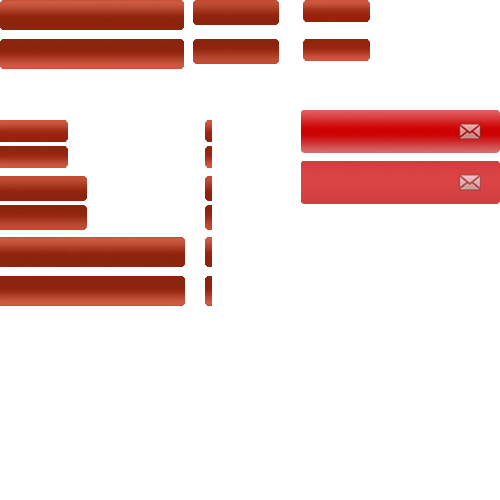
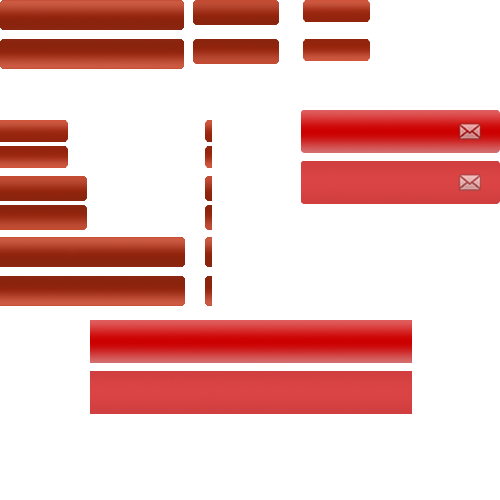
published

Changed region(s): [[0.18, 0.63, 0.84, 0.84]]

diff --git a/pool/templates/Beijing-Lhasa.html b/pool/templates/Beijing-Lhasa.html
@@ -153,23 +153,6 @@
 	</div>
 	<div class="expat one-col box-effect">
 		<h2>Custom Tibet Trips &amp; Travel Service for Expats &amp; business</h2>
-		<dl class="service">
-			<dt>
-				What our travel service includes:
-			</dt>
-			<dd>
-				We can help you book the train/flight ticket to Lhasa from Beijing, vice versa;
-			</dd>
-			<dd>
-				We can get the Tibet Travel permit for you no matter what kind of visa you're holding (X, L, except for J).
-			</dd>
-			<dd>
-				We can get the Tibet Travel permit for you no matter what kind of visa you're holding (X, L, except for J).
-			</dd>
-			<dd>
-				We can get the Tibet Travel permit for you no matter what kind of visa you're holding (X, L, except for J).
-			</dd>
-		</dl>
 		<ul class="itinerary clearfix">
 			<li>
 				<img src="/imagesnew/sample/tour.png" width="230" height="180">
@@ -208,7 +191,6 @@
 				<a href="#" class="check btn middle">Check Details</a>
 			</li>
 		</ul>
-		<h3>How to get to Nepal from Tibet?</h3>
 		<dl class="QA">
 			<dt>
 				<span>Can I fly or train to Tibet without a Tibet Permit?</span>
@@ -217,8 +199,6 @@
 				No matter you're planning totravel Tibet by train, by air or by road, all foreigners need the Travel
 				Permit to enter Tibet.
 			</dd>
-		</dl>
-		<dl class="QA">
 			<dt>
 				<span>Can I fly or train to Tibet without a Tibet Permit?</span>
 			</dt>

diff --git a/pool/templates/contactus.html b/pool/templates/contactus.html
@@ -22,9 +22,7 @@
 	<div class="content">
 		<div class="contact-header">
 			<img src="/imagesnew/sample/bg-aboutus-head.png" />
-			<span>
-				Visiting us in person is a perfect way to plan your trip
-			</span>
+			<span> Visiting us in person is a perfect way to plan your trip </span>
 		</div>
 		<div class="contact-now">
 			<h1>Contact Us Now!</h1>
@@ -191,6 +189,12 @@
 			<span><strong class="grey">Call a specialist on</strong> 01993 838 000 </span>
 			<div class="btn-enquiry">
 				<a href="#">Make an Enquiry</a>
+			</div>
+			<div class="btn-enquirys">
+				<a href="#">Make an Enquiry<img src="/imagesnew/email-button-icon.png"></a>
+			</div>
+			<div class="btn-enquirys">
+				<a href="#">Customize a trip<img src="/imagesnew/email-button-icon.png"></a>
 			</div>
 		</div>
 	</div><!--end of div.content -->

diff --git a/pool/assets/styles/global-published.css b/pool/assets/styles/global-published.css
@@ -1056,6 +1056,32 @@ ul.subnav a.active {
 	text-decoration: none;
 	background: url(/imagesnew/btn.png) no-repeat -301px -161px #D94343;
 }
+
+/* 新的按钮可根据内容撑开*/
+.btn-enquirys {
+    display: block;
+	float: right;
+	margin: 7px 30px 0 0;
+}
+.btn-enquirys a {
+	color: #FFFFFF;
+	display: block;
+	background: url(/imagesnew/btn.png) no-repeat center -320px #D94343;
+	height: 43px;
+	line-height: 43px;
+	font-weight: bold;
+	font-size: 16px;
+	padding:0 10px;
+	border-radius:3px;
+}
+.btn-enquirys a img{
+	float: right;
+    margin: 13px 0 0 10px;
+}
+.btn-enquirys a:hover {
+	text-decoration: none;
+	background: url(/imagesnew/btn.png) no-repeat center -371px #D94343;
+}
 /*
  * 页面底部TC联系头像
  */

diff --git a/pool/assets/styles/tour-index.css b/pool/assets/styles/tour-index.css
@@ -559,17 +559,19 @@ dl.QA {
 	padding:15px 0 0 0 ;
 }
 dl.QA dt {
-	height: 40px;
+	height: 35px;
 	margin: 10px;
 	padding: 0 0 0 45px;
-	background: url("/imagesnew/sample/question-icon.png") no-repeat left center;
+	background: url("/imagesnew/sample/question-icon.png") no-repeat left top;
 }
 dl.QA dd {
-	height: 40px;
+	height: 35px;
 	margin: 10px;
-	padding: 0 0 0 45px;
-	background: url("/imagesnew/sample/answer-icon.png") no-repeat left center;
+	padding: 0 0 10px 45px;
+	background: url("/imagesnew/sample/answer-icon.png") no-repeat left top;
+	border-bottom:1px dashed #a4956c;
 }
+	
 .check {
 	float: right;
 	margin: 0 10px 10px 0;

diff --git a/pool/assets/styles/themetour.css b/pool/assets/styles/themetour.css
@@ -8,7 +8,7 @@ body {
 .themetour-wrap {
 	width: 970px;
 	margin: 0 auto;
-	background: url("/imagesnew/themetour/theme-bg.png") repeat-x;
+	background:#ffffff url("/imagesnew/themetour/theme-bg.png") repeat-x;
 	position: relative;
 	z-index: 400;
 	border: 1px solid #B8B8B8;
